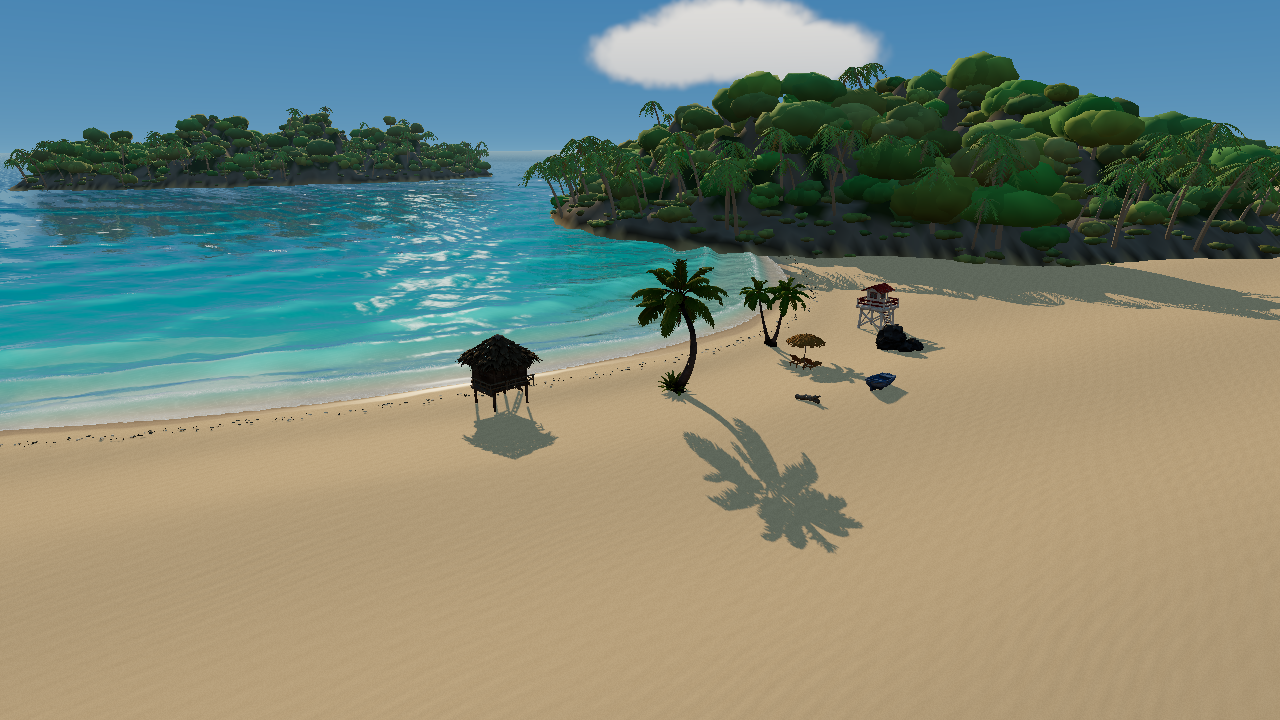
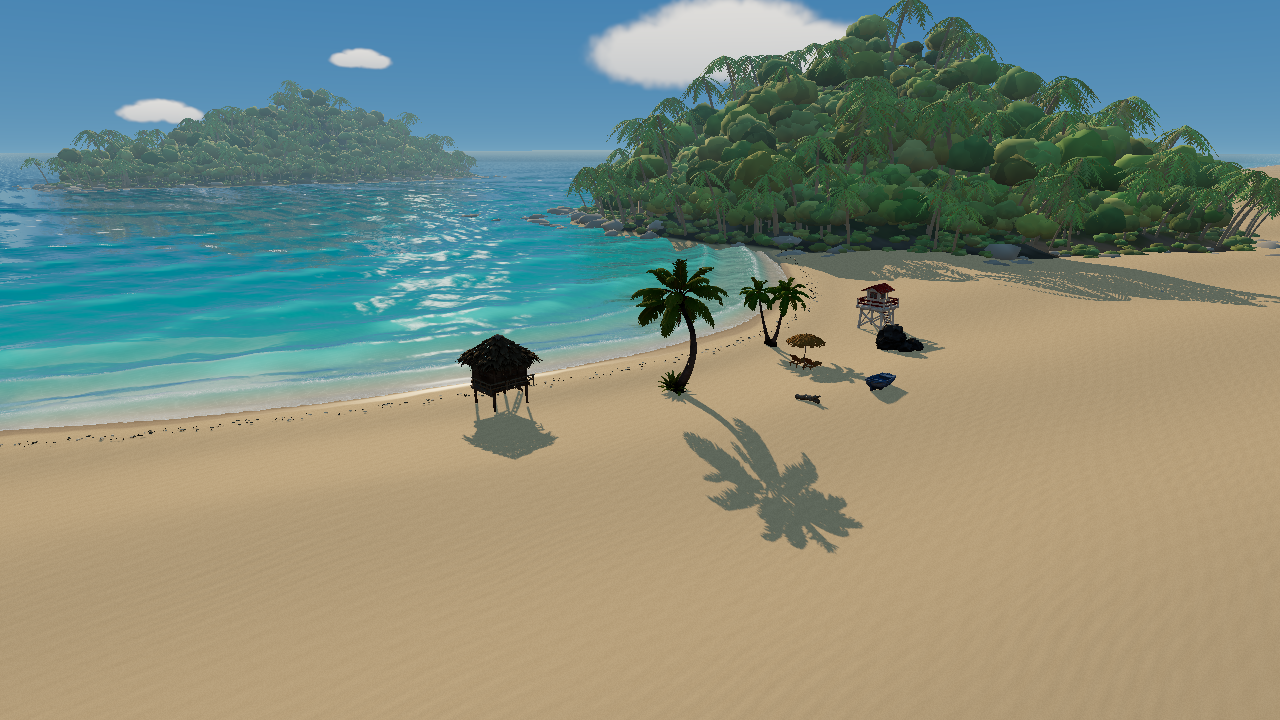
小島對照意象圖改版：島形改圓丘（岩石只留水邊一圈與陡坡），樹冠縮小加量約 4 倍並墊高成林冠、顏色提亮，坡上椰子樹加高冒出林冠，水邊散落岩塊，島的材質遠處往霧色淡出，天空加小積雲；碎貝殼位置不變；重拍三組固定鏡頭與遊戲／遊覽回歸截圖
Claude-Session: https://claude.ai/code/session_01USRpqyJ3nNu4mbR3gC6di4

Changed region(s): [[0.0, 0.0, 1.0, 0.4583], [0.25, 0.0611, 0.3125, 0.0917]]

diff --git a/src/vegetation.js b/src/vegetation.js
@@ -15,9 +15,9 @@ function crownGeometry(seed,detail,k){
  const r=rng(seed),parts=[];
  for(let i=0;i<k;i++){
   let g=new THREE.IcosahedronGeometry(1,detail);g.deleteAttribute('uv');g.deleteAttribute('normal');g=mergeVertices(g);
-  const a=r()*Math.PI*2,d=i?.35+r()*.35:0,s=i?.42+r()*.28:.62+r()*.12,salt=r()*100,tint=.85+r()*.3;
-  const c=new THREE.Vector3(Math.cos(a)*d,i?r()*.35-.05:.1,Math.sin(a)*d),p=g.attributes.position,v=new THREE.Vector3();
-  for(let j=0;j<p.count;j++){v.fromBufferAttribute(p,j);const bump=1+(hash3(v,salt)-.5)*.34;v.multiplyScalar(s*bump).add(c);p.setXYZ(j,v.x,v.y,v.z);}
+  const a=r()*Math.PI*2,d=i?.3+r()*.42:0,s=(i?.34+r()*.22:.55+r()*.1)*(k>5?.9:1.15),salt=r()*100,tint=.8+r()*.4;
+  const c=new THREE.Vector3(Math.cos(a)*d,i?.22-d*.45+r()*.2:.22,Math.sin(a)*d),p=g.attributes.position,v=new THREE.Vector3();
+  for(let j=0;j<p.count;j++){v.fromBufferAttribute(p,j);const bump=1+(hash3(v,salt)-.5)*.5;v.multiplyScalar(s*bump).add(c);p.setXYZ(j,v.x,v.y,v.z);}
   g.setAttribute('tint',new THREE.Float32BufferAttribute(new Array(p.count).fill(tint),1));parts.push(g);
  }
  const g=mergeGeometries(parts);g.computeVertexNormals();
@@ -43,7 +43,7 @@ function palmGeometry(seed){
  for(let f=0;f<fronds;f++){
   const yaw=f/fronds*Math.PI*2+r()*.4,lift=.45-r()*.85,len=.3+r()*.1,old=lift<-.3,dir=new THREE.Vector3(Math.cos(yaw),0,Math.sin(yaw)),side=new THREE.Vector3(-dir.z,0,dir.x);
   // Live fronds green; the lowest, drooping ones dull olive (drying).
-  const green=old?[.36,.38,.17]:[.2+r()*.05,.4+r()*.08,.12+r()*.05];
+  const green=old?[.42,.42,.18]:[.26+r()*.06,.46+r()*.08,.14+r()*.05];
   const spine=[];for(let i=0;i<=segs;i++){const t=i/segs;spine.push(top.clone().addScaledVector(dir,len*t).add(new THREE.Vector3(0,len*(lift*t-.75*t*t),0)));}
   for(let i=0;i<segs;i++){const a=spine[i],b=spine[i+1],w=len*.24*Math.sin(Math.PI*(i+.8)/(segs+.6));
    // Leaflets: narrow blades angled forward and down from the spine, both sides.
@@ -59,9 +59,28 @@ function palmGeometry(seed){
  const merged=mergeGeometries(parts);merged.computeVertexNormals();return merged;
 }
 
+// A shore boulder: a lumpy, flattened rock, height and radius about 1, grey-brown, darker underneath.
+function boulderGeometry(seed){
+ let g=new THREE.IcosahedronGeometry(1,1);g.deleteAttribute('uv');g.deleteAttribute('normal');g=mergeVertices(g);const p=g.attributes.position,v=new THREE.Vector3(),col=[];
+ for(let j=0;j<p.count;j++){v.fromBufferAttribute(p,j);v.multiplyScalar(1+(hash3(v,seed)-.5)*.45);v.y=Math.max(v.y*.7,-.25);p.setXYZ(j,v.x,v.y,v.z);const k=(.3+.16*(v.y+.25))*(.85+.3*hash3(v,seed+1));col.push(k*1.02,k,k*.92);}
+ g.setAttribute('color',new THREE.Float32BufferAttribute(col,3));g.computeVertexNormals();return g;
+}
+
 // A broadleaf trunk: a tapering 6-sided post, height and radius 1, scaled per tree.
 function trunkGeometry(){const g=new THREE.CylinderGeometry(.6,1,1,6,1,true).translate(0,.5,0);g.deleteAttribute('uv');
  g.setAttribute('color',new THREE.Float32BufferAttribute(Array.from({length:g.attributes.position.count},()=>[.36,.32,.26]).flat(),3));return g;}
+
+// Aerial perspective for the islands: past ~80 m they fade towards the fog colour (light blue-grey), much more than the
+// scene's thin fog, so the far island reads as far. Chains onto any onBeforeCompile the material already has.
+export function haze(m){
+ const prev=m.onBeforeCompile;
+ m.onBeforeCompile=(s,r)=>{if(prev)prev(s,r);
+  s.fragmentShader=s.fragmentShader.replace('#include <fog_fragment>',`#ifdef USE_FOG
+   gl_FragColor.rgb=mix(gl_FragColor.rgb,fogColor,.62*(1.-exp(-max(0.,vFogDepth-80.)*.0022)));
+   #endif
+   #include <fog_fragment>`);};
+ return m;
+}
 
 // Leaf clusters: near the camera the crowns get a pattern of lighter and darker clumps (world-space noise, faded
 // out with distance so far islands do not shimmer).
@@ -78,14 +97,14 @@ function foliageMaterial(){
    .replace('#include <color_fragment>',`#include <color_fragment>
    {float near=1.-smoothstep(25.,110.,length(vViewPosition));
     float n=leafNoise(vLeaf*2.2)*.65+leafNoise(vLeaf*5.3)*.35;
-    diffuseColor.rgb*=mix(1.,.55+.8*n,near);}`);
+    diffuseColor.rgb*=mix(1.,.42+1.05*n,near);}`);
  };
- return m;
+ return haze(m);
 }
 
 // Plant islands into shared instanced meshes: plant() once per island, then finish().
 export function createVegetation(group){
- const lists={crownNear:[],crownFar:[],shrub:[],palm:[],trunk:[]};
+ const lists={crownNear:[],crownFar:[],shrub:[],palm:[],trunk:[],boulder:[]};
  // shape(x,z): the island's height at local (x, z); rock(x,z,y): bare rock there; detail 'near' or 'far'.
  function plant({cx,cz,rx,rz,shape,rock,seed,detail,counts}){
   const r=rng(seed),o=new THREE.Object3D(),color=new THREE.Color();
@@ -94,24 +113,29 @@ export function createVegetation(group){
   const downhill=(x,z)=>Math.atan2(shape(x,z+1)-shape(x,z-1),-(shape(x+1,z)-shape(x-1,z)));
   const pick=test=>{for(let i=0;i<60;i++){const x=(r()-.5)*rx*1.9,z=(r()-.5)*rz*1.9,y=shape(x,z);if(test(x,z,y))return [x,z,y];}return null;};
   const put=(list,place)=>{place(o,color);o.updateMatrix();list.push([o.matrix.clone(),color.clone()]);};
-  // Broadleaf trees: crowns overlap in layers on short trunks; a few emergent trees break the skyline.
-  for(let i=0;i<counts.canopy;i++){const p=pick((x,z,y)=>y>2.2&&(!rock(x,z,y)||r()<.15)&&slope(x,z)<1.6);if(!p)continue;const [x,z,y]=p,big=r()<.08;
-   const s=big?4.2+r()*1.6:1.8+r()*2,lift=s*(.12+r()*.28)+(big?3:0);
-   put(detail==='near'?lists.crownNear:lists.crownFar,(o,c)=>{o.position.set(cx+x,y+lift,cz+z);o.scale.set(s*(1+r()*.25),s*(.74+r()*.3),s*(1+r()*.25));o.rotation.set(0,r()*6.3,0);c.setHSL(.2+r()*.13,.36+r()*.24,.2+r()*.12);});
-   put(lists.trunk,(o,c)=>{const w=.12+s*.05;o.position.set(cx+x,y-.3,cz+z);o.scale.set(w,lift+.3,w);o.rotation.set((r()-.5)*.12,r()*6.3,(r()-.5)*.12);c.setRGB(1,1,1);});}
+  // Broadleaf trees: many small crowns packed into a canopy from just above the rock band to the summit (from afar a
+  // fine texture, not separate blobs); a few emergent trees break the skyline. Sunlit yellow-green to olive.
+  for(let i=0;i<counts.canopy;i++){const p=pick((x,z,y)=>y>1.4&&(!rock(x,z,y)||r()<.1)&&slope(x,z)<1.6);if(!p)continue;const [x,z,y]=p,big=r()<.05;
+   const s=big?3.4+r()*1.4:1.4+r()*1.5,lift=1+s*.4+r()*2.5+(big?4:0);
+   put(detail==='near'?lists.crownNear:lists.crownFar,(o,c)=>{o.position.set(cx+x,y+lift,cz+z);o.scale.set(s*(1+r()*.25),s*(.8+r()*.3),s*(1+r()*.25));o.rotation.set(0,r()*6.3,0);{const k=r();c.setHSL(.17+r()*.12,.38+r()*.24,k<.25?.17+r()*.06:.25+r()*.14);}});
+   if(big||r()<.4)put(lists.trunk,(o,c)=>{const w=.1+s*.05;o.position.set(cx+x,y-.3,cz+z);o.scale.set(w,lift+.3,w);o.rotation.set((r()-.5)*.12,r()*6.3,(r()-.5)*.12);c.setRGB(1,1,1);});}
   // Shrubs: the forest edge, low ground and rocky slopes.
-  for(let i=0;i<counts.shrub;i++){const p=pick((x,z,y)=>y>.6&&y<6.5&&slope(x,z)<1.8||rock(x,z,y)&&y>2);if(!p)continue;const [x,z,y]=p;
-   put(lists.shrub,(o,c)=>{const s=.6+r()*1.1;o.position.set(cx+x,y+s*.15,cz+z);o.scale.set(s*1.3,s*(.55+r()*.3),s*1.2);o.rotation.set(0,r()*6.3,0);c.setHSL(.17+r()*.12,.3+r()*.2,.17+r()*.1);});}
-  // Coconut palms: mostly along the shore, leaning downhill towards the water; a few on the ridges.
-  for(let i=0;i<counts.palm;i++){const p=pick((x,z,y)=>{const e=(x/rx)**2+(z/rz)**2;return i%7===0?y>8&&slope(x,z)<1.2:y>.5&&y<9&&e>.42&&slope(x,z)<1.4;});if(!p)continue;const [x,z,y]=p;
-   put(lists.palm,(o,c)=>{const h=7+r()*5.5;o.position.set(cx+x,y-.3,cz+z);o.scale.setScalar(h);
-    // The trunk bends towards local +x: turn that downhill, then lean a little more that way.
-    o.rotation.set(0,0,0);o.rotateY(downhill(x,z));o.rotateZ(-(.06+r()*.16));const k=.88+r()*.25;c.setRGB(k,k,k*.95);});}
+  for(let i=0;i<counts.shrub;i++){const p=pick((x,z,y)=>y>.5&&y<5&&slope(x,z)<1.8||rock(x,z,y)&&y>.8);if(!p)continue;const [x,z,y]=p;
+   put(lists.shrub,(o,c)=>{const s=.6+r()*1.1;o.position.set(cx+x,y+s*.15,cz+z);o.scale.set(s*1.3,s*(.55+r()*.3),s*1.2);o.rotation.set(0,r()*6.3,0);c.setHSL(.17+r()*.12,.38+r()*.2,.22+r()*.1);});}
+  // Coconut palms: many along the shore, leaning downhill towards the water, and scattered up the slopes standing
+  // out of the canopy.
+  for(let i=0;i<counts.palm;i++){const p=pick((x,z,y)=>{const e=(x/rx)**2+(z/rz)**2;return i%3===0?y>4&&slope(x,z)<1.3:y>.6&&y<8&&e>.5&&slope(x,z)<1.4;});if(!p)continue;const [x,z,y]=p,shore=i%3!==0;
+   put(lists.palm,(o,c)=>{const h=shore?7+r()*5:12+r()*6;o.position.set(cx+x,y-.3,cz+z);o.scale.setScalar(h);
+    // The trunk bends towards local +x: turn that downhill, then lean a little more that way (more on the shore).
+    o.rotation.set(0,0,0);o.rotateY(downhill(x,z)+(r()-.5)*.6);o.rotateZ(-(shore?.08+r()*.22:r()*.08));const k=.95+r()*.3;c.setRGB(k,k,k*.92);});}
+  // Boulders scattered along the water line, some half in the water.
+  for(let i=0;i<(counts.boulder||0);i++){const p=pick((x,z,y)=>y>-.6&&y<1.6);if(!p)continue;const [x,z,y]=p;
+   put(lists.boulder,(o,c)=>{const s=.5+r()**2*2.2;o.position.set(cx+x,y-s*.15,cz+z);o.scale.set(s*(1+r()*.5),s*(.6+r()*.5),s*(1+r()*.4));o.rotation.set((r()-.5)*.3,r()*6.3,(r()-.5)*.3);const k=.8+r()*.4;c.setRGB(k,k,k);});}
  }
  function finish(){
-  const foliage=foliageMaterial(),plain=new THREE.MeshStandardMaterial({vertexColors:true,roughness:.9}),fronds=new THREE.MeshStandardMaterial({vertexColors:true,roughness:.85,side:THREE.DoubleSide});
-  const sets=[[lists.crownNear,[11,23].map(s=>crownGeometry(s,1,5)),foliage],[lists.crownFar,[11,23].map(s=>crownGeometry(s,0,5)),foliage],
-   [lists.shrub,[51,63].map(s=>crownGeometry(s,0,4)),foliage],[lists.palm,[71,83].map(palmGeometry),fronds],[lists.trunk,[trunkGeometry()],plain]];
+  const foliage=foliageMaterial(),plain=haze(new THREE.MeshStandardMaterial({vertexColors:true,roughness:.9})),fronds=haze(new THREE.MeshStandardMaterial({vertexColors:true,roughness:.85,side:THREE.DoubleSide}));
+  const sets=[[lists.crownNear,[11,23,37].map(s=>crownGeometry(s,1,5)),foliage],[lists.crownFar,[11,23].map(s=>crownGeometry(s,0,4)),foliage],
+   [lists.shrub,[51,63].map(s=>crownGeometry(s,0,4)),foliage],[lists.palm,[71,83].map(palmGeometry),fronds],[lists.trunk,[trunkGeometry()],plain],[lists.boulder,[5,9].map(boulderGeometry),plain]];
   for(const [list,geos,material] of sets){const meshes=geos.map(g=>{const m=new THREE.InstancedMesh(g,material,Math.max(1,Math.ceil(list.length/geos.length)));m.count=0;m.castShadow=m.receiveShadow=true;group.add(m);return m;});
    list.forEach(([matrix,color],i)=>{const m=meshes[i%meshes.length];m.setMatrixAt(m.count,matrix);m.setColorAt(m.count,color);m.count++;});
    for(const m of meshes){m.instanceMatrix.needsUpdate=true;if(m.instanceColor)m.instanceColor.needsUpdate=true;m.computeBoundingSphere();}}

diff --git a/src/coast.js b/src/coast.js
@@ -1,26 +1,34 @@
 import * as THREE from 'three';
 import { shore, groundHeight } from './terrain.js';
-import { createVegetation } from './vegetation.js';
+import { createVegetation, haze } from './vegetation.js';
 // Shared landscape details, deliberately outside the experimental prop root.
 export function addCoastDetails(scene) {
  let seed=7921;
  const rand=()=>{seed=(1664525*seed+1013904223)>>>0;return seed/4294967296;};
  const land=new THREE.Group();land.name='shared-coastal-landforms';scene.add(land);
  function hill(cx,cz,rx,rz,height){
-  const rock=(x,z,y)=>!(y>height*.20&&Math.sin(x*.32+z*.44)+Math.cos(z*.24)<1.1);
-  const shape=(x,z)=>{const e=Math.max(0,1-(x/rx)**2-(z/rz)**2);return Math.pow(e,.7)*(height*(.70+.18*Math.sin(x*.14+z*.06)+.12*Math.sin(x*.31-z*.22))+2*Math.sin(x*.8+z*.5))-.5;};
-  const g=new THREE.PlaneGeometry(rx*2,rz*2,110,70);g.rotateX(-Math.PI/2);const p=g.attributes.position,colors=[];
-  for(let i=0;i<p.count;i++){const x=p.getX(i),z=p.getZ(i),y=shape(x,z);p.setY(i,y);const vegetation=y>height*.20&&Math.sin(x*.32+z*.44)+Math.cos(z*.24)<1.1,f=.8+rand()*.35;
-   // Forest floor (lighter and browner than before, so gaps between crowns are not black), bare rock on the
-   // outcrops and steep faces, and a sand and wet-rock fringe at the water.
-   const steep=Math.hypot(shape(x+1,z)-shape(x-1,z),shape(x,z+1)-shape(x,z-1))/2,blend=Math.sin(x*.9)*Math.sin(z*.7)*.5+.5;
-   const c=new THREE.Color(y<.9?0xb9a77f:y<1.8?0x5f5a4c:vegetation&&steep<1.5?(blend>.5?0x3b5530:0x4a5a33):0x86837a);c.multiplyScalar(f);colors.push(c.r,c.g,c.b);}
-  g.setAttribute('color',new THREE.Float32BufferAttribute(colors,3));g.computeVertexNormals();const mesh=new THREE.Mesh(g,new THREE.MeshStandardMaterial({vertexColors:true,roughness:1}));mesh.position.set(cx,0,cz);mesh.receiveShadow=true;mesh.castShadow=true;land.add(mesh);
-  // The old blob trees drew from the shared seed; draw the same numbers so the tide debris below stays where it was.
-  for(let i=0;i<3200;i++){const x=(rand()-.5)*rx*1.65,z=(rand()-.5)*rz*1.65;if(shape(x,z)<3){i--;continue;}for(let k=0;k<5;k++)rand();}
+  // A rounded hill: gentle at the water, rising to an off-centre summit (no cliff skirt). Bare rock is a broken band
+  // just above the water line and the steepest faces; the rest is forest floor.
+  const shape=(x,z)=>{const e=Math.max(0,1-(x/rx)**2-(z/rz)**2),px=x/rx-.14,pz=z/rz+.1,peak=Math.max(0,1-2.2*(px*px+pz*pz));
+   const n=.1*Math.sin(x*.14+z*.06)+.07*Math.sin(x*.31-z*.22)+.05*Math.sin(x*.8+z*.5);
+   return height*(.5*e**1.6+.5*peak**1.7*e**.5)*(1+n)-.5;};
+  const steepness=(x,z)=>Math.hypot(shape(x+1,z)-shape(x-1,z),shape(x,z+1)-shape(x,z-1))/2;
+  const rock=(x,z,y)=>y>.35&&(y<1.3+1.6*(.5+.5*Math.sin(x*.37+z*.23)*Math.cos(z*.29-x*.11))||steepness(x,z)>1.25);
+  const g=new THREE.PlaneGeometry(rx*2,rz*2,140,90);g.rotateX(-Math.PI/2);const p=g.attributes.position,colors=[];
+  for(let i=0;i<p.count;i++){const x=p.getX(i),z=p.getZ(i),y=shape(x,z);p.setY(i,y);const h=Math.sin(x*12.9898+z*78.233)*43758.5453,f=.8+.35*(h-Math.floor(h)),blend=Math.sin(x*.9)*Math.sin(z*.7)*.5+.5;
+   // Sand at the water, a dark wet-rock band above it, then shaded forest floor (green-brown, so gaps between
+   // crowns read as shade rather than black or grey).
+   const c=new THREE.Color(y<.35?0xcdbb92:rock(x,z,y)?(y<1.2?0x4a463e:0x67625a):blend>.5?0x3f4d2a:0x4b5631);c.multiplyScalar(f);colors.push(c.r,c.g,c.b);}
+  g.setAttribute('color',new THREE.Float32BufferAttribute(colors,3));g.computeVertexNormals();const mesh=new THREE.Mesh(g,haze(new THREE.MeshStandardMaterial({vertexColors:true,roughness:1})));mesh.position.set(cx,0,cz);mesh.receiveShadow=true;mesh.castShadow=true;land.add(mesh);
+  // The old terrain (a 110 × 70 grid) drew one number per vertex and the old blob trees drew from the shared seed over
+  // the old island shape; draw the same numbers so
+  // the tide debris below stays where it was.
+  const old=(x,z)=>{const e=Math.max(0,1-(x/rx)**2-(z/rz)**2);return Math.pow(e,.7)*(height*(.70+.18*Math.sin(x*.14+z*.06)+.12*Math.sin(x*.31-z*.22))+2*Math.sin(x*.8+z*.5))-.5;};
+  for(let i=0;i<111*71;i++)rand();
+  for(let i=0;i<3200;i++){const x=(rand()-.5)*rx*1.65,z=(rand()-.5)*rz*1.65;if(old(x,z)<3){i--;continue;}for(let k=0;k<5;k++)rand();}
   return {shape,rock};
  }
- const islands=[[90,-340,105,40,29,'far',{canopy:760,shrub:420,palm:110},211],[114,-58,64,78,29,'near',{canopy:920,shrub:620,palm:150},307]];
+ const islands=[[90,-340,105,40,29,'far',{canopy:3400,shrub:700,palm:170,boulder:320},211],[114,-58,64,78,29,'near',{canopy:3100,shrub:900,palm:220,boulder:380},307]];
  const plants=new THREE.Group();plants.name='island-vegetation';land.add(plants);
  const vegetation=createVegetation(plants);
  for(const [cx,cz,rx,rz,h,detail,counts,seed] of islands){const {shape,rock}=hill(cx,cz,rx,rz,h);vegetation.plant({cx,cz,rx,rz,shape,rock,seed,detail,counts});}

diff --git a/src/main.js b/src/main.js
@@ -33,6 +33,13 @@ const sky=new THREE.Mesh(new THREE.SphereGeometry(1800,32,16),new THREE.ShaderMa
  float billow=min(length(q-vec2(-.65,.02)),min(length((q-vec2(.0,.36))*vec2(.85,.8)),length(q-vec2(.75,-.04))));
  float n=noise(uv*85.)*.10+noise(uv*173.)*.04;
  cloud=max(cloud,1.-smoothstep(.72,1.12,billow+n));shade=max(shade,clamp(q.y*.30+.55,0.,1.)*cloud);}
+ // Small fair-weather cumulus scattered low around the horizon, all the way round.
+ for(int i=0;i<30;i++){float fi=float(i),k=fract(sin(fi*5.1)*17.3);if(fract(sin(fi*2.3)*61.7)<.3)continue;
+ vec2 center=vec2(-3.1+fi*.21+.2*(fract(sin(fi*11.7)*91.3)-.5),.04+.11*fract(sin(fi*3.7)*43.1)*fract(sin(fi*1.9)*29.3));
+ vec2 q=(uv-center)/(vec2(.04,.016)*(.4+.9*k*k));
+ float billow=min(length(q-vec2(-.55,.05)),min(length((q-vec2(.05,.4))*vec2(.9,.85)),length(q-vec2(.6,-.02))));
+ float n=noise(uv*140.)*.14+noise(uv*290.)*.06,c=1.-smoothstep(.7,1.1,billow+n);
+ shade=max(shade,clamp(q.y*.3+.55,0.,1.)*c*(1.-cloud));cloud=max(cloud,c);}
  col=mix(col,mix(vec3(.47,.59,.72),vec3(1.5,1.42,1.28),shade),cloud*.95);
  float sun=pow(max(0.,dot(d,normalize(vec3(.45,.38,-.8)))),850.);col+=vec3(5.,3.8,2.3)*sun;
  gl_FragColor=vec4(col,1.);}` }));scene.add(sky);

diff --git a/CLAUDE.md b/CLAUDE.md
@@ -128,7 +128,12 @@ There is no lint or unit-test setup. Verification means running the Playwright s
   - Lounger: `findSurface` returns `lie {point, recline}` from the lounger's height profile (slat gaps ignored): hips just in front of the backrest bend, on a slat; `character.update({recline})` tips the body back to the backrest slope with the legs level on the seat.
   - Boat: the hull frame ignores parts sticking out (C's model includes its oars): the longest run of columns reaching near the bottom sets the centre line when it is off the box centre. The feet stand on the measured inner floor plus `character.ankleHeight`.
   - On the ground the soles keep the clip's world orientation through leg IK, so a squat does not dig the toes into the sand.
-- **Island vegetation** (`src/vegetation.js`, called from `src/coast.js`, shared by all groups; since 2026-10-21, blind scores and REPORT predate it): broadleaf crowns (lumpy clumps of displaced blobs, darker underneath, a world-space leaf-cluster pattern in the shader that fades out past ~110 m) on short trunks with a few emergent trees, coconut palms (curved trunk, drooping feather fronds) mostly along the shore leaning downhill, and shrubs at the forest edge and on rock. Fixed seeds; instanced meshes shared by both islands (9 meshes). The old blob trees drew from the coast's shared seed, so `hill()` still draws the same numbers: the tide debris on the beach is unchanged (checksum of its instance matrices). Terrain colours: lighter forest floor, sand and wet-rock fringe at the water, lighter rock.
+- **Islands and vegetation** (`src/coast.js` `hill()`, `src/vegetation.js`, shared by all groups; since 2026-10-21, blind scores and REPORT predate it). Reworked the same day against Codex concept art (`~/explainer-videos/beach3d-eval/island-concept/`).
+  - Shape: a rounded hill, gentle at the water and rising to an off-centre summit (no cliff skirt). Bare rock is a broken band just above the water line plus the steepest faces; sand at the water; green-brown forest floor.
+  - Vegetation: about 3000 small broadleaf crowns per island packed into a canopy (lumpy clumps, darker underneath, a world-space leaf-cluster pattern fading out past ~110 m, sunlit yellow-green to olive), a few emergent trees, coconut palms (shore palms leaning downhill, taller ones on the slopes standing out of the canopy), shrubs, and boulders along the water line. Fixed seeds; instanced meshes shared by both islands (12 meshes, about 1.9M triangles).
+  - `haze()` (exported from `vegetation.js`): island materials fade towards the fog colour past ~80 m, much more than the scene's thin fog, so the far island reads as far.
+  - The terrain grid and the old blob trees used to draw from the coast's shared seed; `hill()` still draws the same numbers over the old shape, so the tide debris on the beach is unchanged (checksum of its instance matrices).
+  - The sky adds about 20 small cumulus low around the horizon to the four big clouds.
 - **Shadows.** The sun is low (about 22°). The shadow camera's depth range is set to the scene (near 5, far 200) with bias -.00005 and normalBias .03, map 4096: the old default range made bias -.0004 about 20 cm, so shadows started ~0.5 m from prop bases and props looked afloat.
 - **Game boat in the water.** The clone floats with a draft (keel a quarter of the hull height, 12–25 cm, under the water line; height and tilt fit the water at bow, stern and both sides, since near the shore a hull levelled at its centre had water 15 cm over its inside). The heights come from `surfaceHeight()` in `src/water.js`, the water as drawn: offshore the water mesh rows are 10–16 m apart, so the flat triangles stray 20–30 cm from the exact field (`sampleWater`), and every ten seconds or so a crest covered the whole inside of a hull that followed the exact field. A depth-only cap over the hull's inside (20 cm above the water line, `renderOrder` 1, water 2) keeps the opaque water plane from showing inside the hull; the water stays at least 8 cm under it along the whole route. The hull's long axis comes from the vertex spread (C's oars skewed the box) and the narrower end is the bow (B and C ran transom first before); the rower takes a thwart clear of the floor in the aft half, so the legs have room before the bow narrows. Its materials are double-sided (C's single-skin hull showed the sea from inside).
 - **Bloom guard.** `src/main.js` runs a pass before bloom that turns NaN/Inf pixels to black and caps values at 1e4; otherwise one bad pixel (seen near A's palm_pair in game mode) spreads over the whole frame and the verifier sees an "empty" frame. Normal pixels are unchanged (A stills match to 1 level).

diff --git a/NOTES.md b/NOTES.md
@@ -289,3 +289,4 @@ Open **http://localhost:5191/game.html** (also linked as **遊戲模式** on the
 - **爬進小船（2026-10-21）**：推船到水夠深之後，原本是 1.2 秒從身後直線內插到座位、中間往上跳一下，身體直接轉正，看起來像飄進船裡。現在是 3.2 秒的分段動作（全部由經過的時間決定，逐格錄影一致）：走近船尾、雙手抓住船尾上緣 → 撐起身體、胸口趴過船尾（臀部到船尾頂的高度）→ 一隻膝蓋跨過船尾、踩到船裡（地板或座板），另一隻再跨進來 → 蹲低、雙手改扶兩側船舷 → 往前跨過座板 → 面向船頭坐下，手移到槳上。船內可以踩的高度（`boat.deck`）和船舷位置在設定船的時候量好：船舷用從船外往內打的射線找（C 組自帶的槳會把外框撐寬到 3.5 m，超過中線 0.9 m 的命中略過；單層船殼從裡面打會打不到）。爬進來時船尾被壓低約 5°、整條船下沉 2 cm。臀部到座位時（2.9 秒）切換成坐姿並跳過姿勢過渡（`snapPose`），身體不會彈一下。量測：手到目標的誤差多數 ≤ 0.12 m，蹲在船裡扶船舷時最多 0.28 m（C 組）；B 組跨過船尾那一下小腿陷入船尾約 11 cm、從座板踩下時腳趾約 9 cm，坐下後轉成划船姿勢的 0.3 秒內大腿碰座板約 13 cm（舊版上船後也一樣）。
 - **走跑切換加減速（2026-10-21）**：原本角色速度在一格內就從 4.5 m/s 變成 1.8 m/s 或 0，動畫混合再追上去，所以放開 Shift 時像慢動作跑步，停下時整個人定格、腿停在半空再變回站姿。現在速度本身有加減速：起步與從走路停下約 0.3 秒，走↔跑約 0.8 秒（幾步漸短的步幅），從跑步停下約 1 秒；沒有輸入時沿最後的方向減速停下。遊戲中上半身依加速度前傾或後仰（最多約 6°）。混合權重改為緊跟實際速度，步頻仍依實際速度推算，腳不滑。
 - **錄影時遊戲跑兩倍速（2026-10-21 修正）**：`__GAME__.step(dt)` 推進時鐘並更新遊戲後，`main.js` 的畫面迴圈用「水面時鐘－上次畫面時間」又更新一次，所以「step 後等畫面」的錄影腳本（外海、遊戲精華、遊戲潮池、走位）裡角色、小船、划槳都是兩倍速。現在 `step()` 記下已推進到的時間（`water.userData.simTime`），畫面迴圈只補算之後的部分。外海錄影模擬三組仍觀察到 7 種、`verify-game` 通過。
+- **小島外形與植被對照意象圖（2026-10-21）**：用 Codex 只看文字描述畫了三張意象圖（沙灘遠景、海上看遠島、俯瞰岬角，`~/explainer-videos/beach3d-eval/island-concept/`），跟現況對照，差最多的是外形與植被尺度：原本是平頂、四周一圈黑色岩壁、樹冠又大又少（像長滿花椰菜的平台）。修改：`hill()` 改成圓丘（水邊平緩、往偏離中心的山頂升高），岩石只留水邊一圈斷續的濕岩帶和最陡的坡面；樹冠改小、數量約 4 倍（每島約 3000 顆）並墊高成一層林冠，顏色提亮成向光的黃綠到橄欖綠，少數深色；坡上的椰子樹加高到冒出林冠，岸邊椰子樹往海傾；水邊散落岩塊；島的材質過了約 80 m 往霧色淡出（`haze()`），遠島看起來比較遠；天空多約 20 朵靠近地平線的小積雲。碎貝殼位置不變（校驗和相同）。植被三角形 64 萬 → 187 萬，wide 鏡頭 GPU 每幀約 1.09 → 1.20 ms。還沒做的：淺水珊瑚暗影、林緣灌木伸到沙上。三組共用，盲評分數與 REPORT 是之前的畫面。
